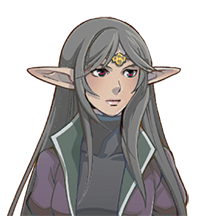
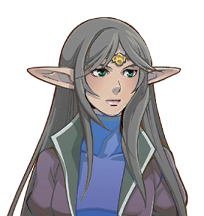
Fix various display issues
Dheria: fix tunic colour for variants
Mithyn: furl outstretched wing
Nalili: fix face-bust alignment issues
Wendis: fix extra shoulder on greyT variant
Xestris: fix ear positions in busts and inconsistent collar in one faceset variant

diff --git a/Bust Config.rb b/Bust Config.rb
@@ -10,8 +10,8 @@ Busty::FACE_TO_BUST = {
   "Aka emo2" => "Aka2",
   "Alanon emo" => "Alonon",
   "darksorceress" => "Riala",
-  "Dheria emo1" => "Dheria1",
-  "Dheria emo2" => "Dheria2",
+  "Dheria emo1" => "Dheria2", # grey tunic, red eyes
+  "Dheria emo2" => "Dheria1", # blue tunic, green eyes
   "face002b" => "Simon1",
   "face002b2" => "Simon1",
   "face002b dark" => "Simon1",
@@ -141,6 +141,17 @@ Busty::SUBSET_TO_BUST = [
     character_name: "Xestris2",
     face_name: "Xestris emo2",
     face_indexes: [0],
+  },
+  # Xestris ear positions
+  {
+    character_name: "Xestris-ear-up",
+    face_name: "Xestris emo2",
+    face_indexes: [1],
+  },
+  {
+    character_name: "Xestris-ear-down",
+    face_name: "Xestris emo2",
+    face_indexes: [2, 5, 6],
   },
   # Yarra boobs
   {
@@ -289,15 +300,16 @@ Busty::BASE_CONFIG.merge!({
     face_offset_x: 47,
     face_offset_y: 30,
   },
-  "Dheria1" => {
+  "Dheria1" => { # blue tunic, green eyes
     bust_scale: 0.75,
     face_offset_x: 68,
     face_offset_y: 34,
   },
-  "Dheria2" => {
+  "Dheria2" => { # grey tunic, red eyes
     bust_scale: 0.75,
     face_offset_x: 68,
     face_offset_y: 34,
+    face_border_width: [0, 0, 18, 0], # clothing colour mismatch
   },
   "Dio" => { # Lustlord
     bust_scale: 0.75,
@@ -684,6 +696,7 @@ Busty::BASE_CONFIG.merge!({
     face_offset_x: 47,
     face_offset_y: 38,
     face_z: -1,
+    face_border_width: [0, 0, 21, 0],
   },
  "Wynn" => {
     bust_scale: 0.79,
@@ -920,6 +933,9 @@ Busty::MESSAGE_CONFIG.merge!({
   "Mestan" => {
     bust_offset_y: -5,
   },
+  "Mithyn" => {
+    bust_offset_x: -145,
+  },
   "Nabith" => {
     bust_offset_x: -25,
   },
@@ -1043,15 +1059,6 @@ Busty::MESSAGE_CONFIG.merge!({
   end
 end
 
-# Nalili is being difficult and needs to be extra adjusted manually.
-# Decarabia
-Busty::BASE_CONFIG["Nalili2"] = {
-  bust_scale: 0.73,
-  face_offset_x: 56,
-  face_offset_y: 28,
-  face_z: -1,
-}
-
 # Rachnera
 # Dealing with Yarra's boobs
 Busty::BASE_CONFIG.merge!({
@@ -1076,6 +1083,11 @@ Busty::MESSAGE_CONFIG["Ulrissa2"] = Busty::MESSAGE_CONFIG["Ulrissa"]
 # Dark Xestris
 Busty::BASE_CONFIG["Xestris2"] = Busty::BASE_CONFIG["Xestris"]
 Busty::MESSAGE_CONFIG["Xestris2"] = Busty::MESSAGE_CONFIG["Xestris"]
+# Xestris ear positions
+Busty::BASE_CONFIG["Xestris-ear-up"] = Busty::BASE_CONFIG["Xestris"]
+Busty::MESSAGE_CONFIG["Xestris-ear-up"] = Busty::MESSAGE_CONFIG["Xestris"]
+Busty::BASE_CONFIG["Xestris-ear-down"] = Busty::BASE_CONFIG["Xestris"]
+Busty::MESSAGE_CONFIG["Xestris-ear-down"] = Busty::MESSAGE_CONFIG["Xestris"]
 # Ivala
 # Explicit config so we can easily duplicate it
 Busty::MESSAGE_CONFIG.merge!({
